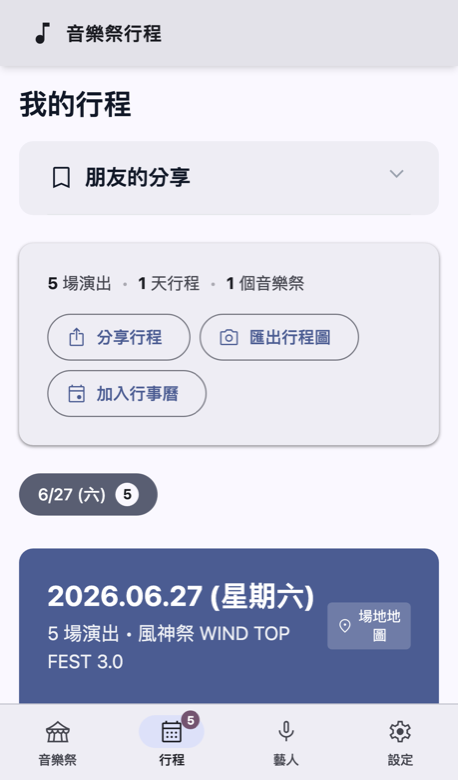
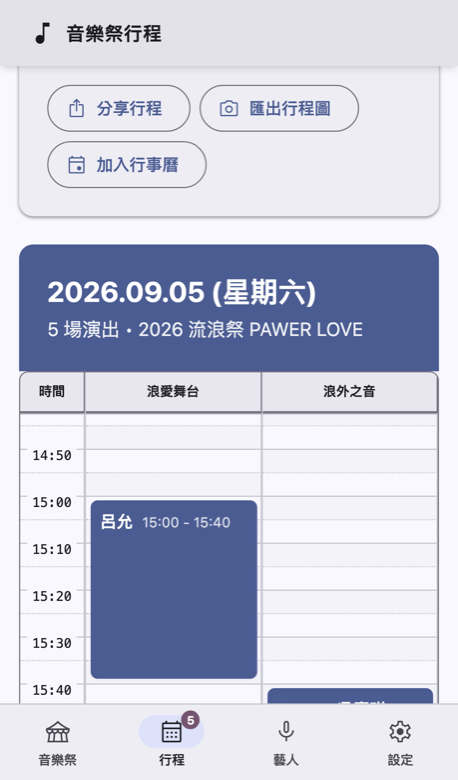
Refine CI workflows and timeline theming
Streamlined GitHub Actions to reduce duplicate runs: CI now runs only on pull requests (with docs/data path ignores), deploy and publish-data workflows add concurrency control, deploy now gates on lint and tests, and publish-data is restricted to main pushes. Updated TimelineGrid styling to use MD3 theme color tokens (live/current/conflict/default block states), improved block/card visuals and monospace fallback stack, aligned grid divider color with theme variables, and refreshed the planning screenshot.

diff --git a/src/components/TimelineGrid.vue b/src/components/TimelineGrid.vue
@@ -39,13 +39,13 @@
         :style="currentLineStyle(now)"
       >
         <div
-          class="text-red-500 bg-red-50 px-1 text-[10px] sm:text-xs font-bold shrink-0 shadow-sm mr-1 rounded w-[var(--time-col-width,55px)] md:w-[var(--time-col-width,80px)] text-center transform -translate-y-1/2 ml-1"
+          class="text-[var(--md-sys-color-on-error-container)] bg-[var(--md-sys-color-error-container)] px-1 text-[10px] sm:text-xs font-bold shrink-0 shadow-sm mr-1 rounded w-[var(--time-col-width,55px)] md:w-[var(--time-col-width,80px)] text-center transform -translate-y-1/2 ml-1"
         >
           {{ formatTime(now, is24Hour) }}
         </div>
-        <div class="flex-1 border-t-[3px] border-red-500 relative transform -translate-y-1/2">
+        <div class="flex-1 border-t-[3px] border-[var(--md-sys-color-error)] relative transform -translate-y-1/2">
           <div
-            class="w-3 h-3 sm:w-3.5 sm:h-3.5 rounded-full bg-red-500 absolute top-1/2 -left-1 transform -translate-y-1/2"
+            class="w-3 h-3 sm:w-3.5 sm:h-3.5 rounded-full bg-[var(--md-sys-color-error)] absolute top-1/2 -left-1 transform -translate-y-1/2"
           />
         </div>
       </div>
@@ -55,7 +55,7 @@
         <div
           v-for="perf in performancesByStage[stage.name] || []"
           :key="perf.id || `${perf.artist}_${perf.start}`"
-          class="performance-block relative rounded shadow transition-transform hover:scale-[1.02] focus-visible:outline focus-visible:outline-2 focus-visible:outline-offset-2 focus-visible:outline-[var(--md-sys-color-on-surface)]"
+          class="performance-block relative rounded-md shadow-sm transition-transform hover:scale-[1.02] focus-visible:outline focus-visible:outline-2 focus-visible:outline-offset-2 focus-visible:outline-[var(--md-sys-color-on-surface)]"
           :class="[sizeClasses(perf), getPerfClasses(perf), liveClasses(perf), conflictClasses(perf)]"
           :style="perfStyle(perf, stageIndex)"
           :role="interactive ? 'button' : undefined"
@@ -74,10 +74,10 @@
                 class="text-[10px] font-bold leading-4 shrink-0"
                 aria-hidden="true"
               >✓</span>
-              <span v-if="isLive(perf)" class="text-[10px] font-bold bg-red-500 text-white px-1 rounded animate-pulse shrink-0">
+              <span v-if="isLive(perf)" class="text-[10px] font-bold bg-[var(--md-sys-color-error)] text-[var(--md-sys-color-on-error)] px-1 rounded animate-pulse shrink-0">
                 LIVE
               </span>
-              <span v-if="conflictsFor(perf)" class="text-[10px] font-bold bg-amber-500 text-white px-1 rounded shrink-0" :title="conflictsFor(perf)">
+              <span v-if="conflictsFor(perf)" class="text-[10px] font-bold bg-amber-600 text-white px-1 rounded shrink-0" :title="conflictsFor(perf)">
                 ⚠
               </span>
               <span v-marquee="settingsStore.enableMarqueeAnimation" class="marquee-viewport min-w-0">
@@ -110,7 +110,7 @@ const props = defineProps({
   is24Hour: { type: Boolean, default: true },
   showCurrentTime: { type: Boolean, default: false },
   now: { type: Date, default: () => new Date() },
-  // (perf) => 'bg-blue-600 text-white' 之類
+  // (perf) => 'bg-[var(--md-sys-color-primary)] text-[var(--md-sys-color-on-primary)]' 之類；沒給就用主題主色
   perfClassResolver: { type: Function, default: null },
   // 是否偵測跨舞台時間衝突（個人行程才需要，跑馬燈時間表不需要）
   detectConflicts: { type: Boolean, default: false },
@@ -152,7 +152,7 @@ function blockLabel(perf, stage) {
 
 function getPerfClasses(perf) {
   if (props.perfClassResolver) return props.perfClassResolver(perf);
-  return 'bg-blue-600 text-white';
+  return 'bg-[var(--md-sys-color-primary)] text-[var(--md-sys-color-on-primary)]';
 }
 
 // 演出時長很短（例如開場儀式、報到）時，方塊本身的格高有限，
@@ -172,7 +172,7 @@ function isLive(perf) {
 }
 
 function liveClasses(perf) {
-  return isLive(perf) ? 'ring-2 ring-red-500 ring-offset-1' : '';
+  return isLive(perf) ? 'ring-2 ring-[var(--md-sys-color-error)] ring-offset-1' : '';
 }
 
 // 衝突偵測：對每個 perf 找出時間重疊但 stage 不同的演出
@@ -212,7 +212,7 @@ function conflictsFor(perf) {
 }
 
 function conflictClasses(perf) {
-  return conflictsFor(perf) ? 'outline outline-2 outline-amber-500 outline-offset-1' : '';
+  return conflictsFor(perf) ? 'outline outline-2 outline-amber-600 outline-offset-1' : '';
 }
 
 function scrollToCurrent() {
@@ -365,7 +365,7 @@ const vMarquee = {
   display: flex;
   align-items: flex-start;
   justify-content: center;
-  font-family: 'Courier New', monospace;
+  font-family: ui-monospace, SFMono-Regular, Menlo, Consolas, monospace;
   font-size: 0.8rem;
   font-weight: 500;
   border-right: 1px solid var(--tg-border-light);

diff --git a/src/composables/useTimelineGrid.js b/src/composables/useTimelineGrid.js
@@ -70,7 +70,8 @@ export function useTimelineGrid(performancesGetter, is24HourGetter) {
       display: 'grid',
       gridTemplateColumns: `var(--time-col-width, 80px) repeat(${stageCount}, minmax(var(--stage-col-width, 0), 1fr))`,
       gridTemplateRows: gridRows,
-      backgroundColor: '#e5e7eb',
+      // 欄與欄之間 1px 的分隔線顏色，跟 MD3 outline-variant 對齊（亮暗主題都對）
+      backgroundColor: 'var(--tg-border-light)',
       // 只留直向（欄與欄之間）的 1px 間隙當分隔線；
       // 橫向的時間格線改由每格的 border-top 畫，才能分別控制 10 分 / 5 分線深淺。
       gap: '0 1px',
